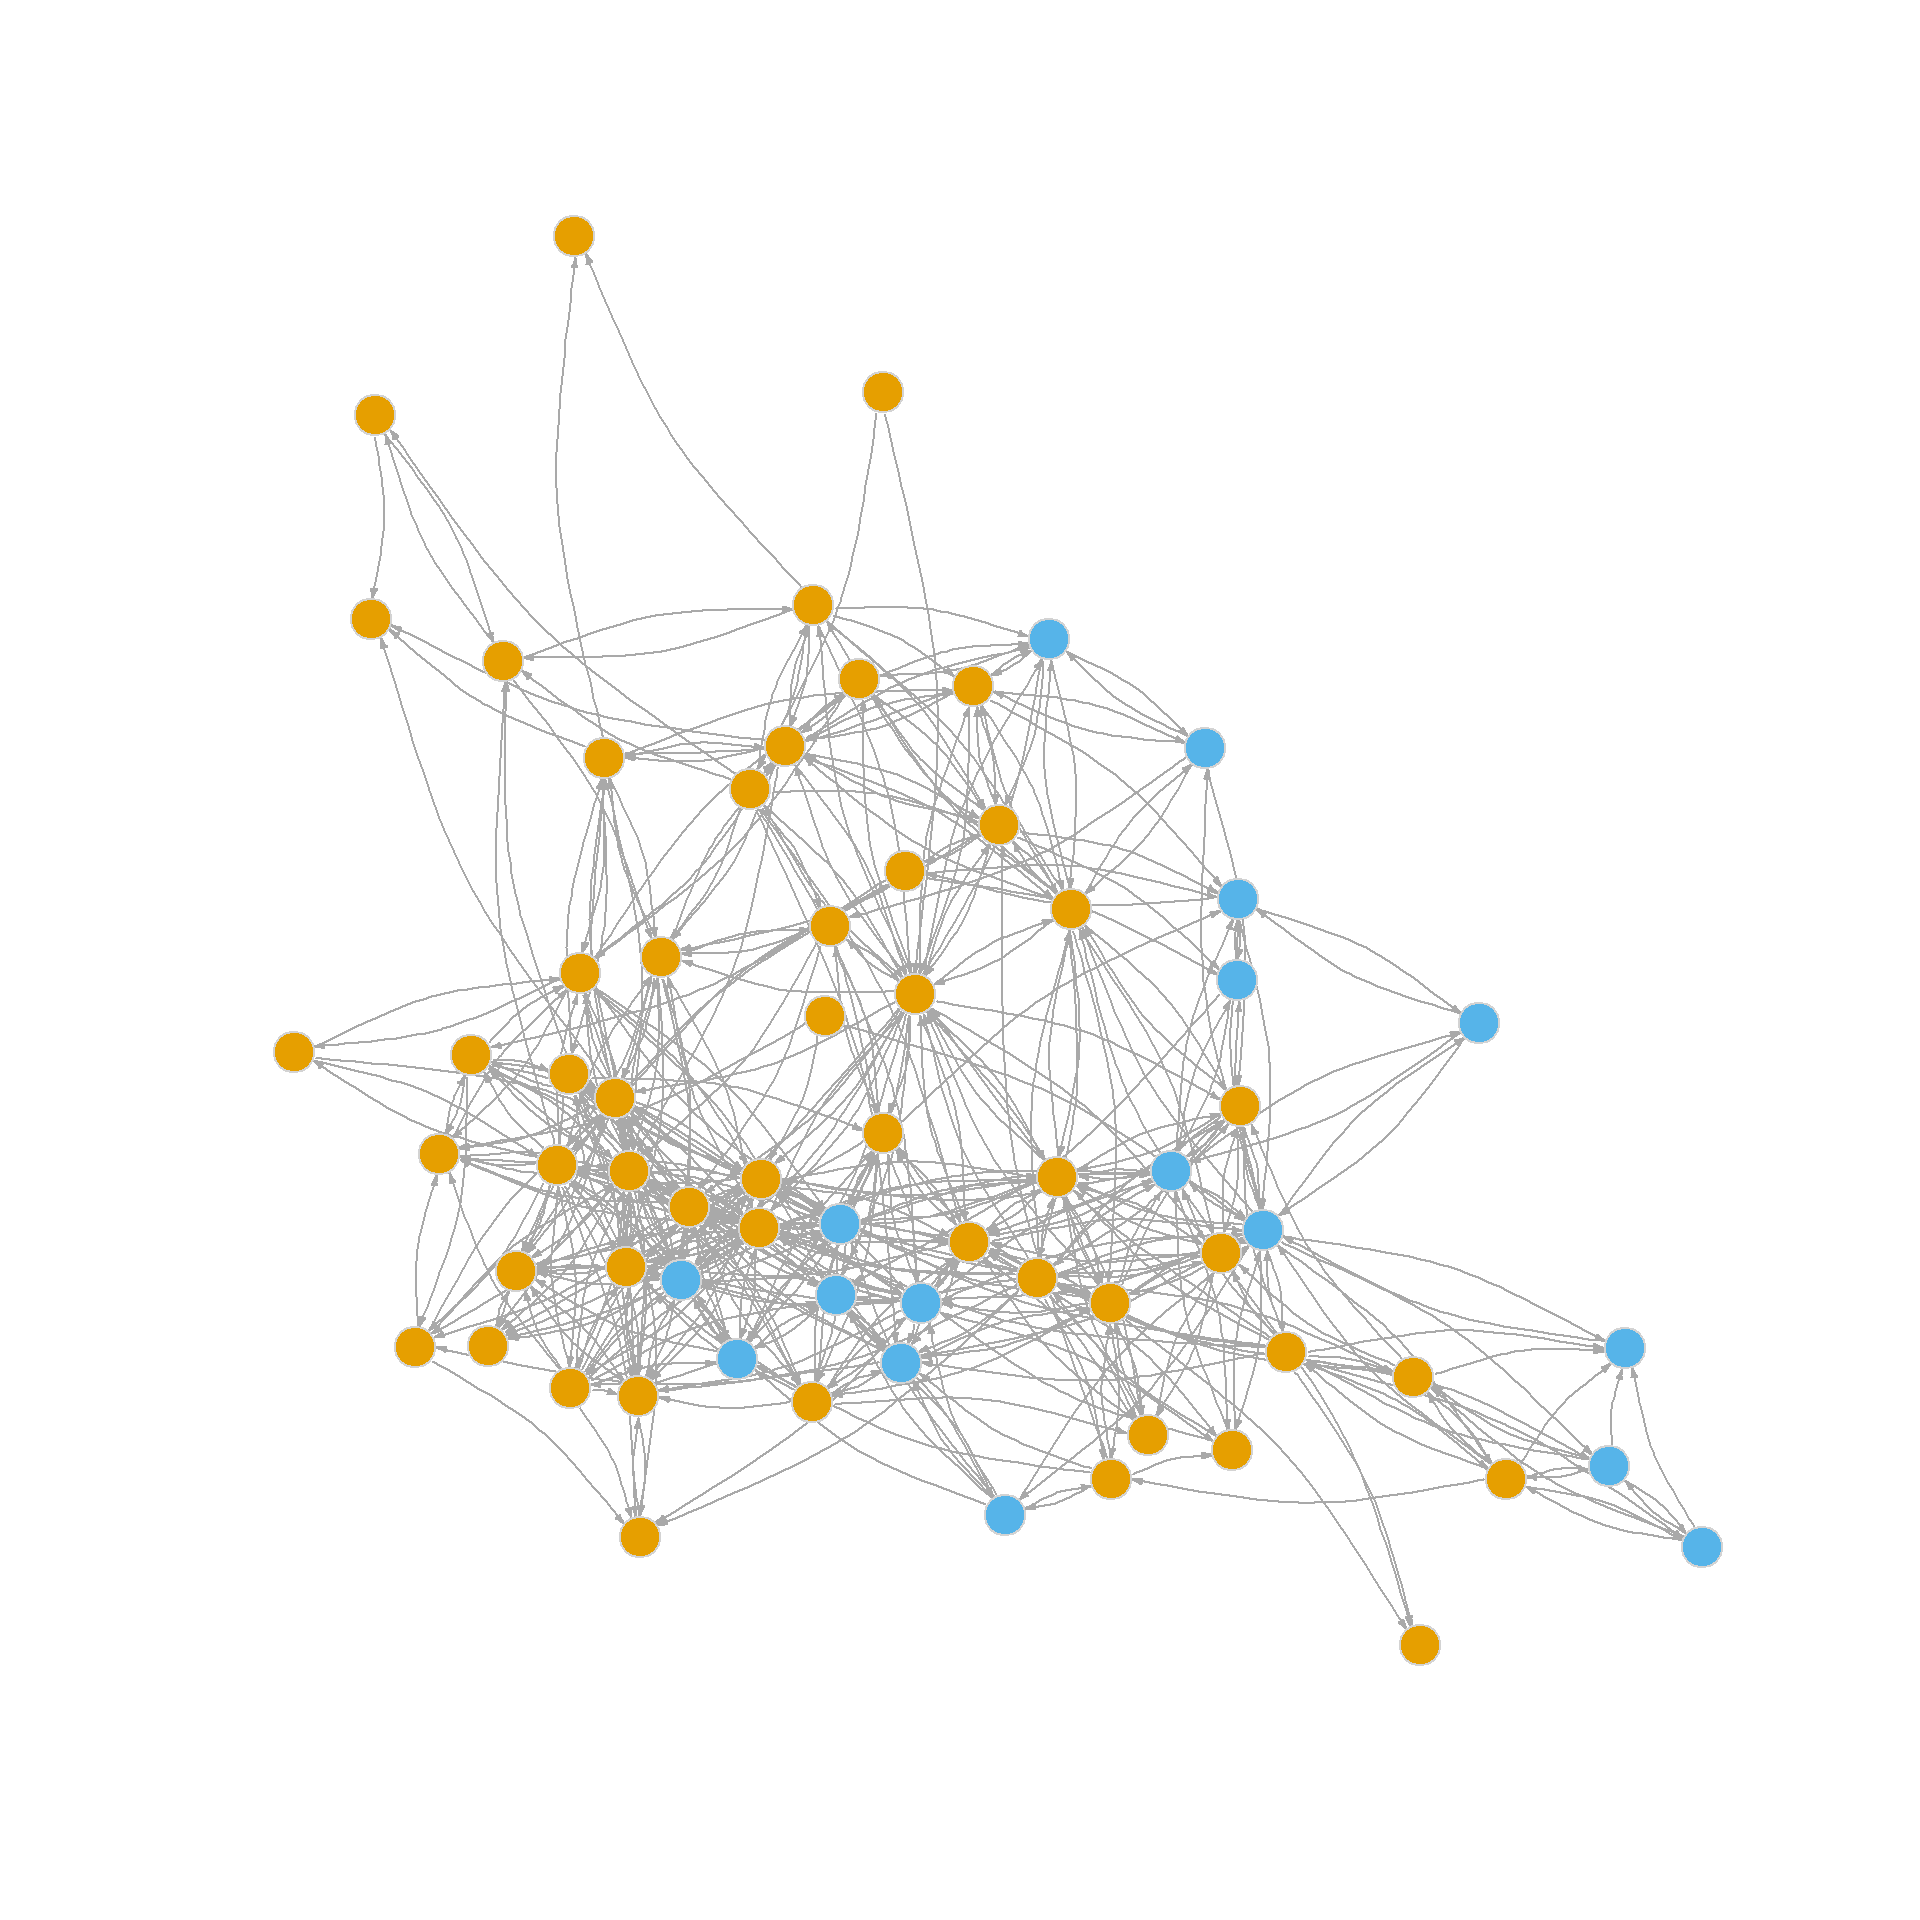
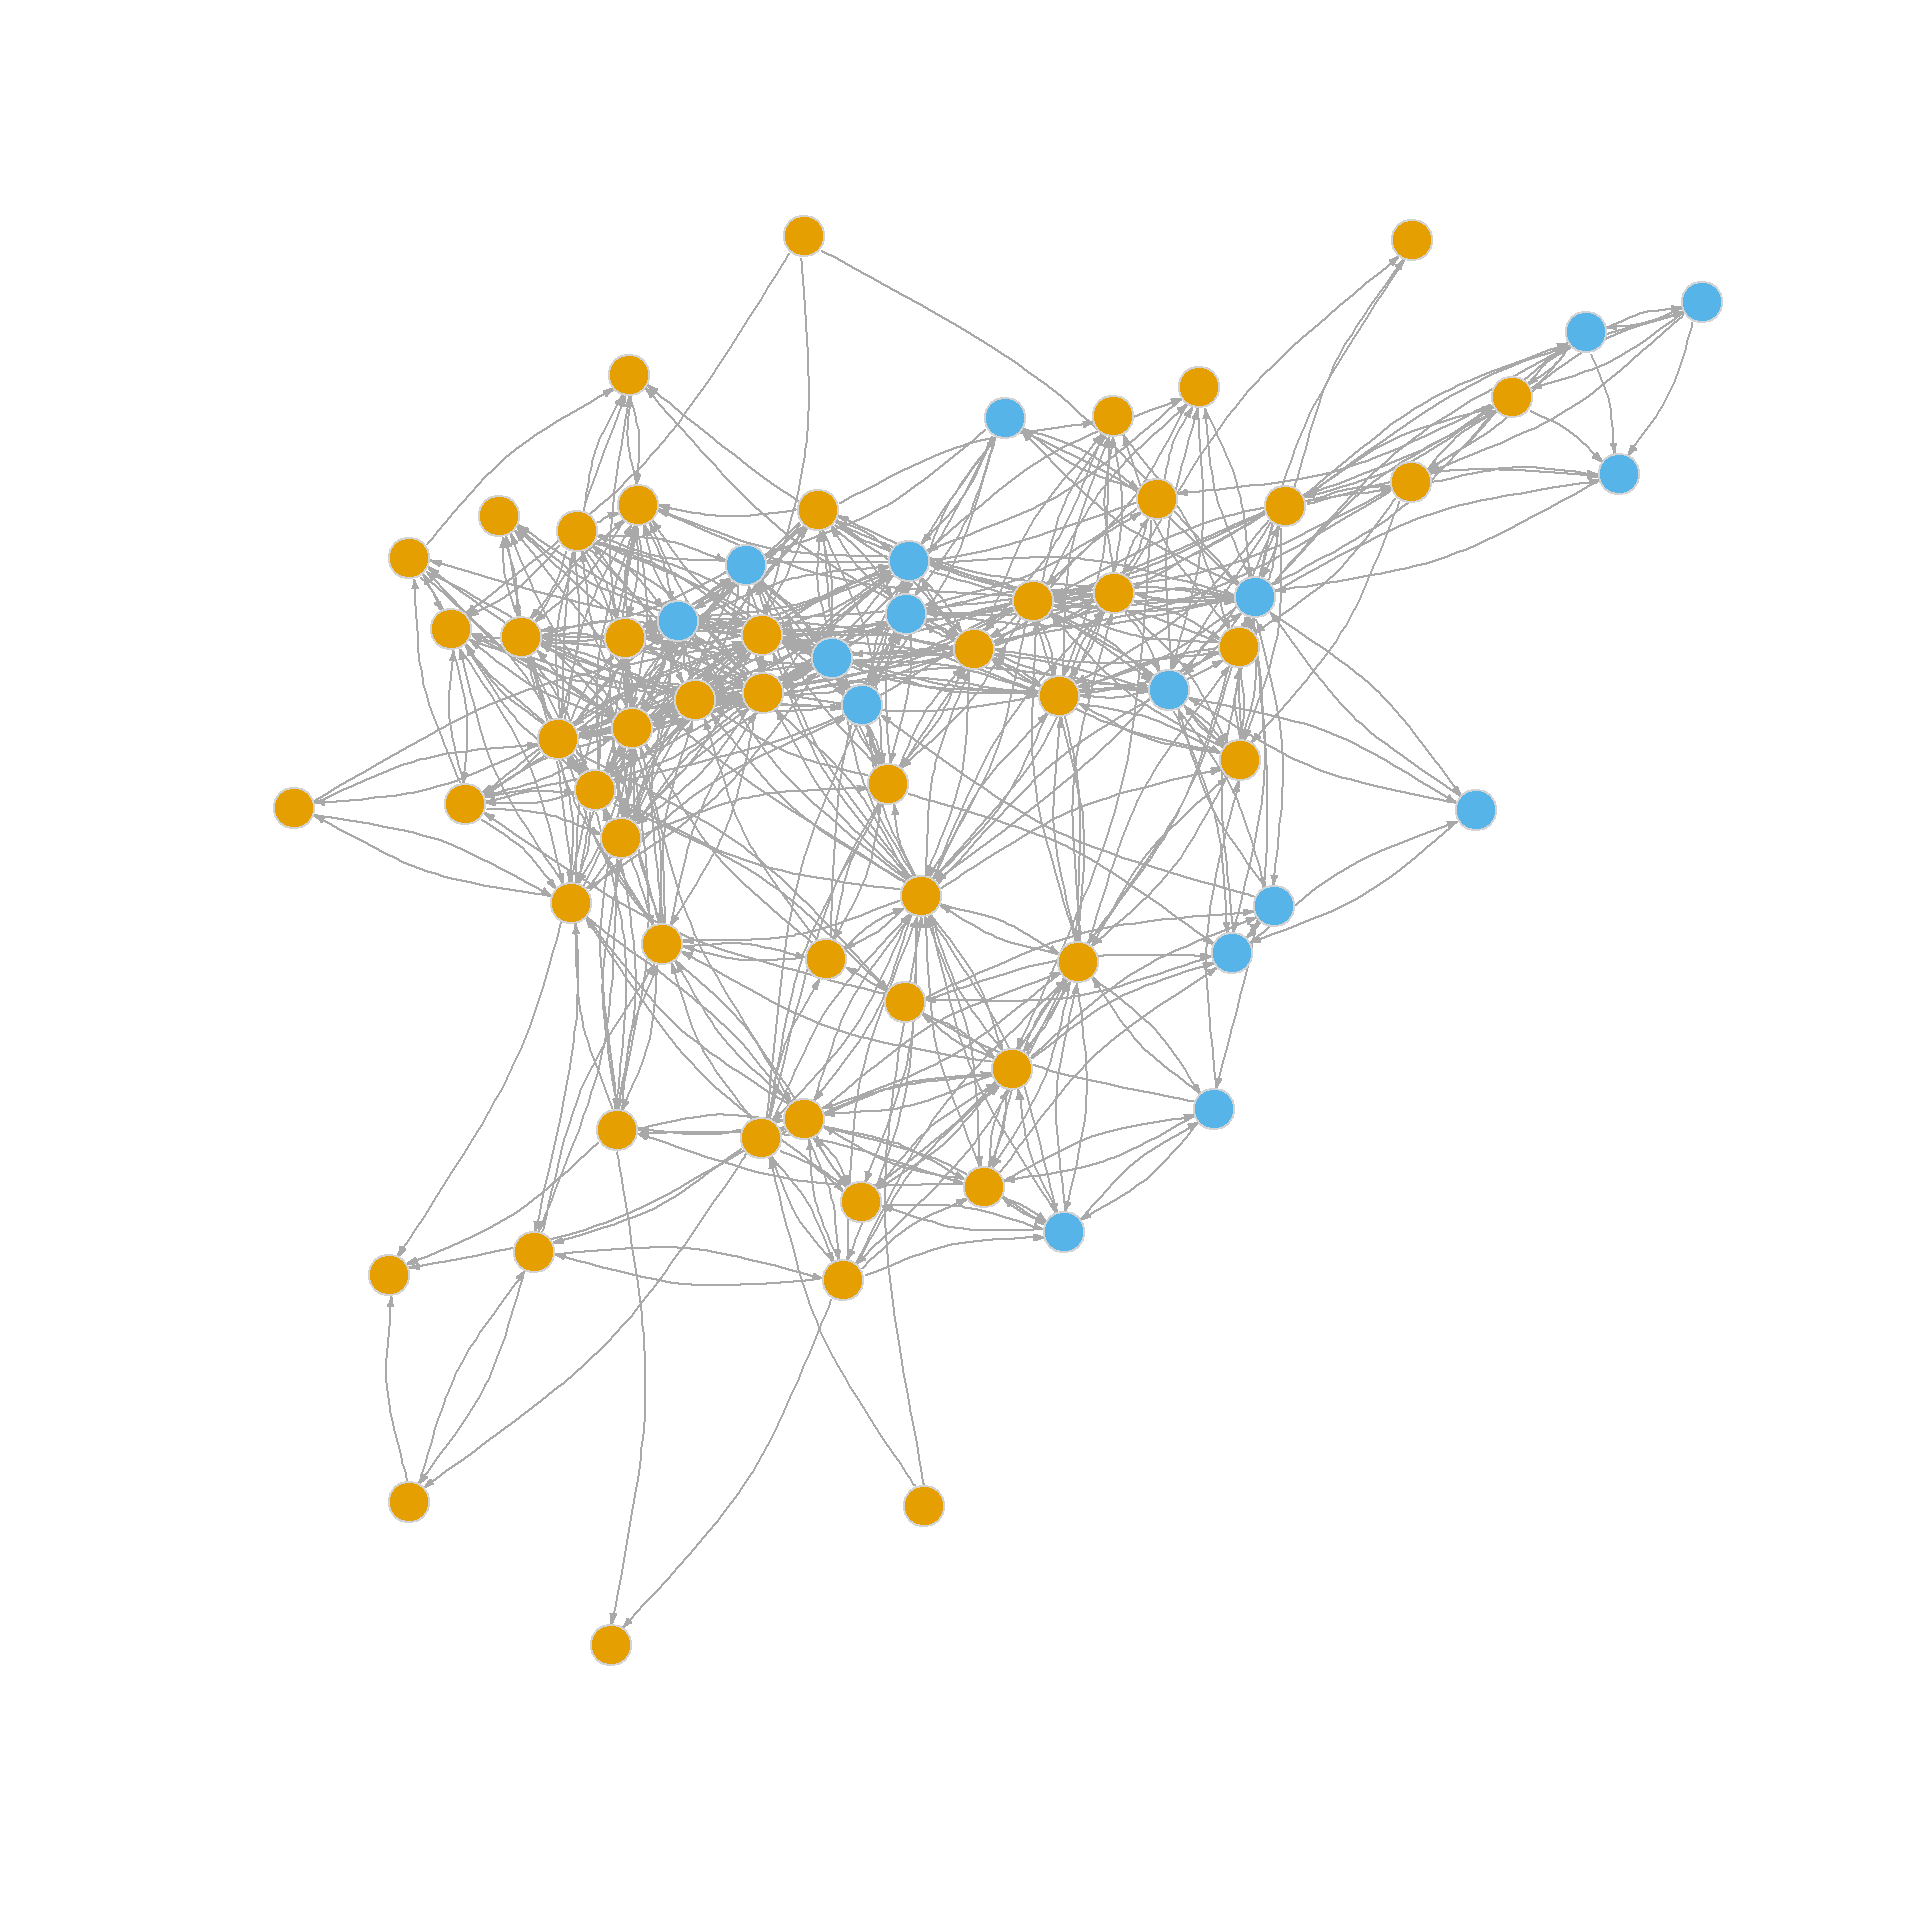
fixed plot layouts

diff --git a/docs/handout6.html b/docs/handout6.html
@@ -583,10 +583,11 @@ b_{ij} = a_{ij} - \frac{k^{out}_ik^{in}_j}{\sum_i\sum_j a_{ij}}
 <p>Here’s some visual evidence:</p>
 <div class="cell">
 <div class="sourceCode cell-code" id="cb34"><pre class="sourceCode numberSource r number-lines code-with-copy"><code class="sourceCode r"><span id="cb34-1"><a href="#cb34-1"></a>   <span class="fu">V</span>(g)<span class="sc">$</span>color <span class="ot">&lt;-</span> C</span>
-<span id="cb34-2"><a href="#cb34-2"></a>   <span class="fu">plot</span>(g, </span>
-<span id="cb34-3"><a href="#cb34-3"></a>     <span class="at">vertex.size=</span><span class="dv">6</span>, <span class="at">vertex.frame.color=</span><span class="st">"lightgray"</span>, </span>
-<span id="cb34-4"><a href="#cb34-4"></a>     <span class="at">vertex.label =</span> <span class="cn">NA</span>, <span class="at">edge.arrow.size =</span> <span class="fl">0.25</span>,</span>
-<span id="cb34-5"><a href="#cb34-5"></a>     <span class="at">vertex.label.dist=</span><span class="dv">1</span>, <span class="at">edge.curved=</span><span class="fl">0.2</span>)</span></code><button title="Copy to Clipboard" class="code-copy-button"><i class="bi"></i></button></pre></div>
+<span id="cb34-2"><a href="#cb34-2"></a>   <span class="fu">set.seed</span>(<span class="dv">123</span>)</span>
+<span id="cb34-3"><a href="#cb34-3"></a>   <span class="fu">plot</span>(g, </span>
+<span id="cb34-4"><a href="#cb34-4"></a>     <span class="at">vertex.size=</span><span class="dv">6</span>, <span class="at">vertex.frame.color=</span><span class="st">"lightgray"</span>, </span>
+<span id="cb34-5"><a href="#cb34-5"></a>     <span class="at">vertex.label =</span> <span class="cn">NA</span>, <span class="at">edge.arrow.size =</span> <span class="fl">0.25</span>,</span>
+<span id="cb34-6"><a href="#cb34-6"></a>     <span class="at">vertex.label.dist=</span><span class="dv">1</span>, <span class="at">edge.curved=</span><span class="fl">0.2</span>)</span></code><button title="Copy to Clipboard" class="code-copy-button"><i class="bi"></i></button></pre></div>
 <div class="cell-output-display">
 <div class="quarto-figure quarto-figure-center">
 <figure class="figure">
